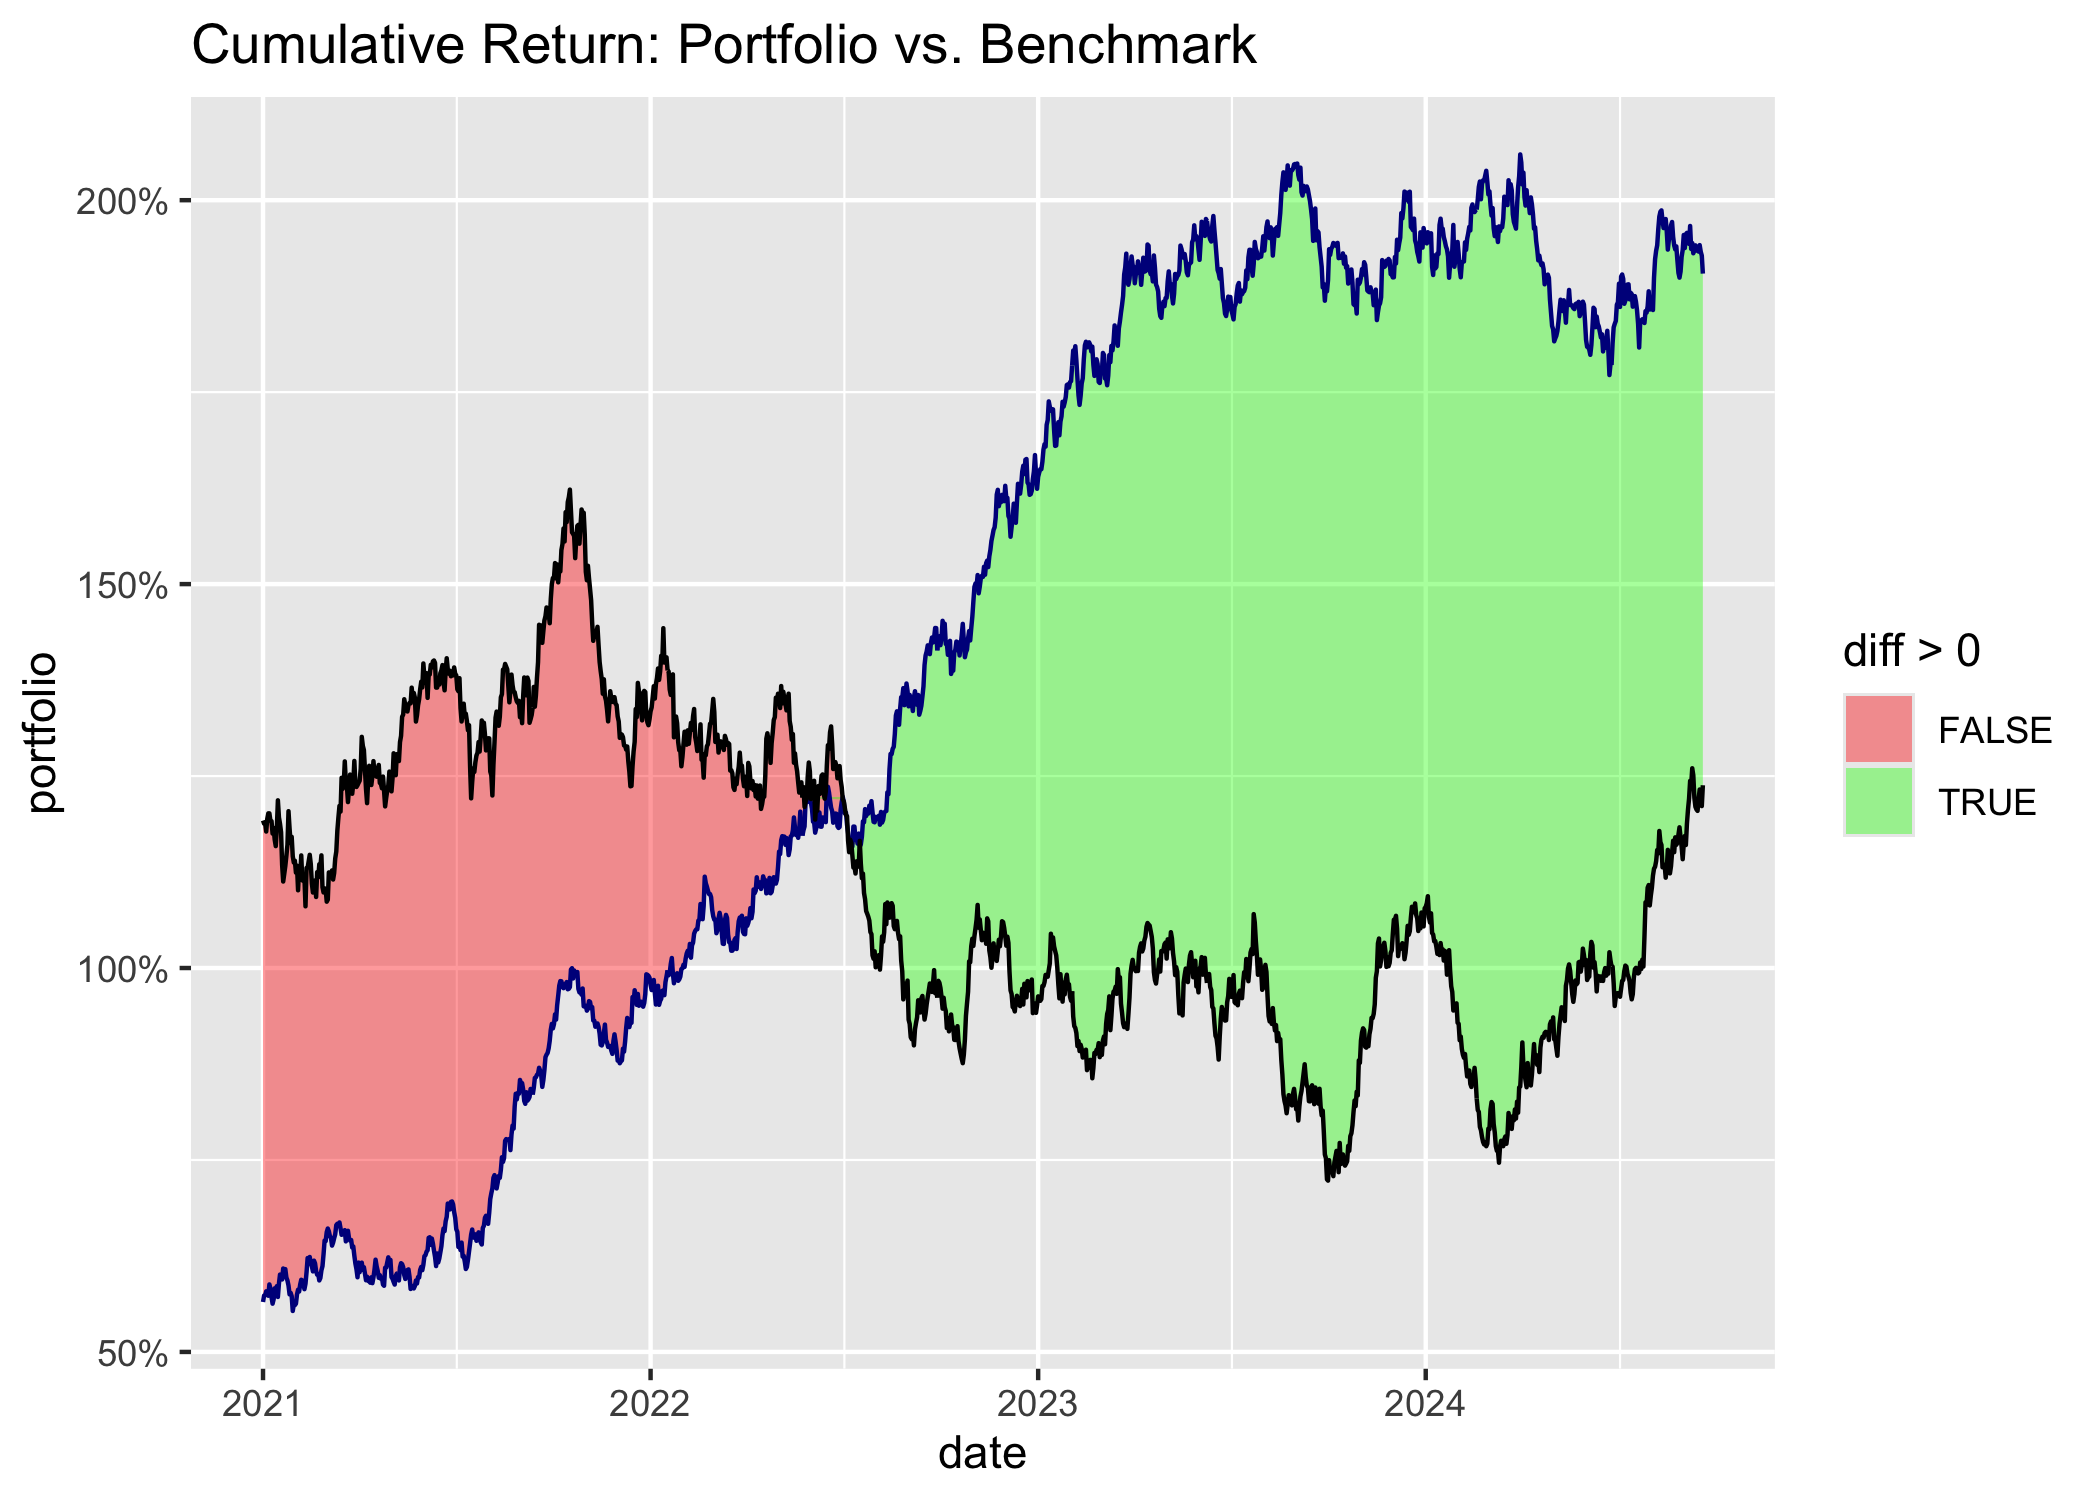
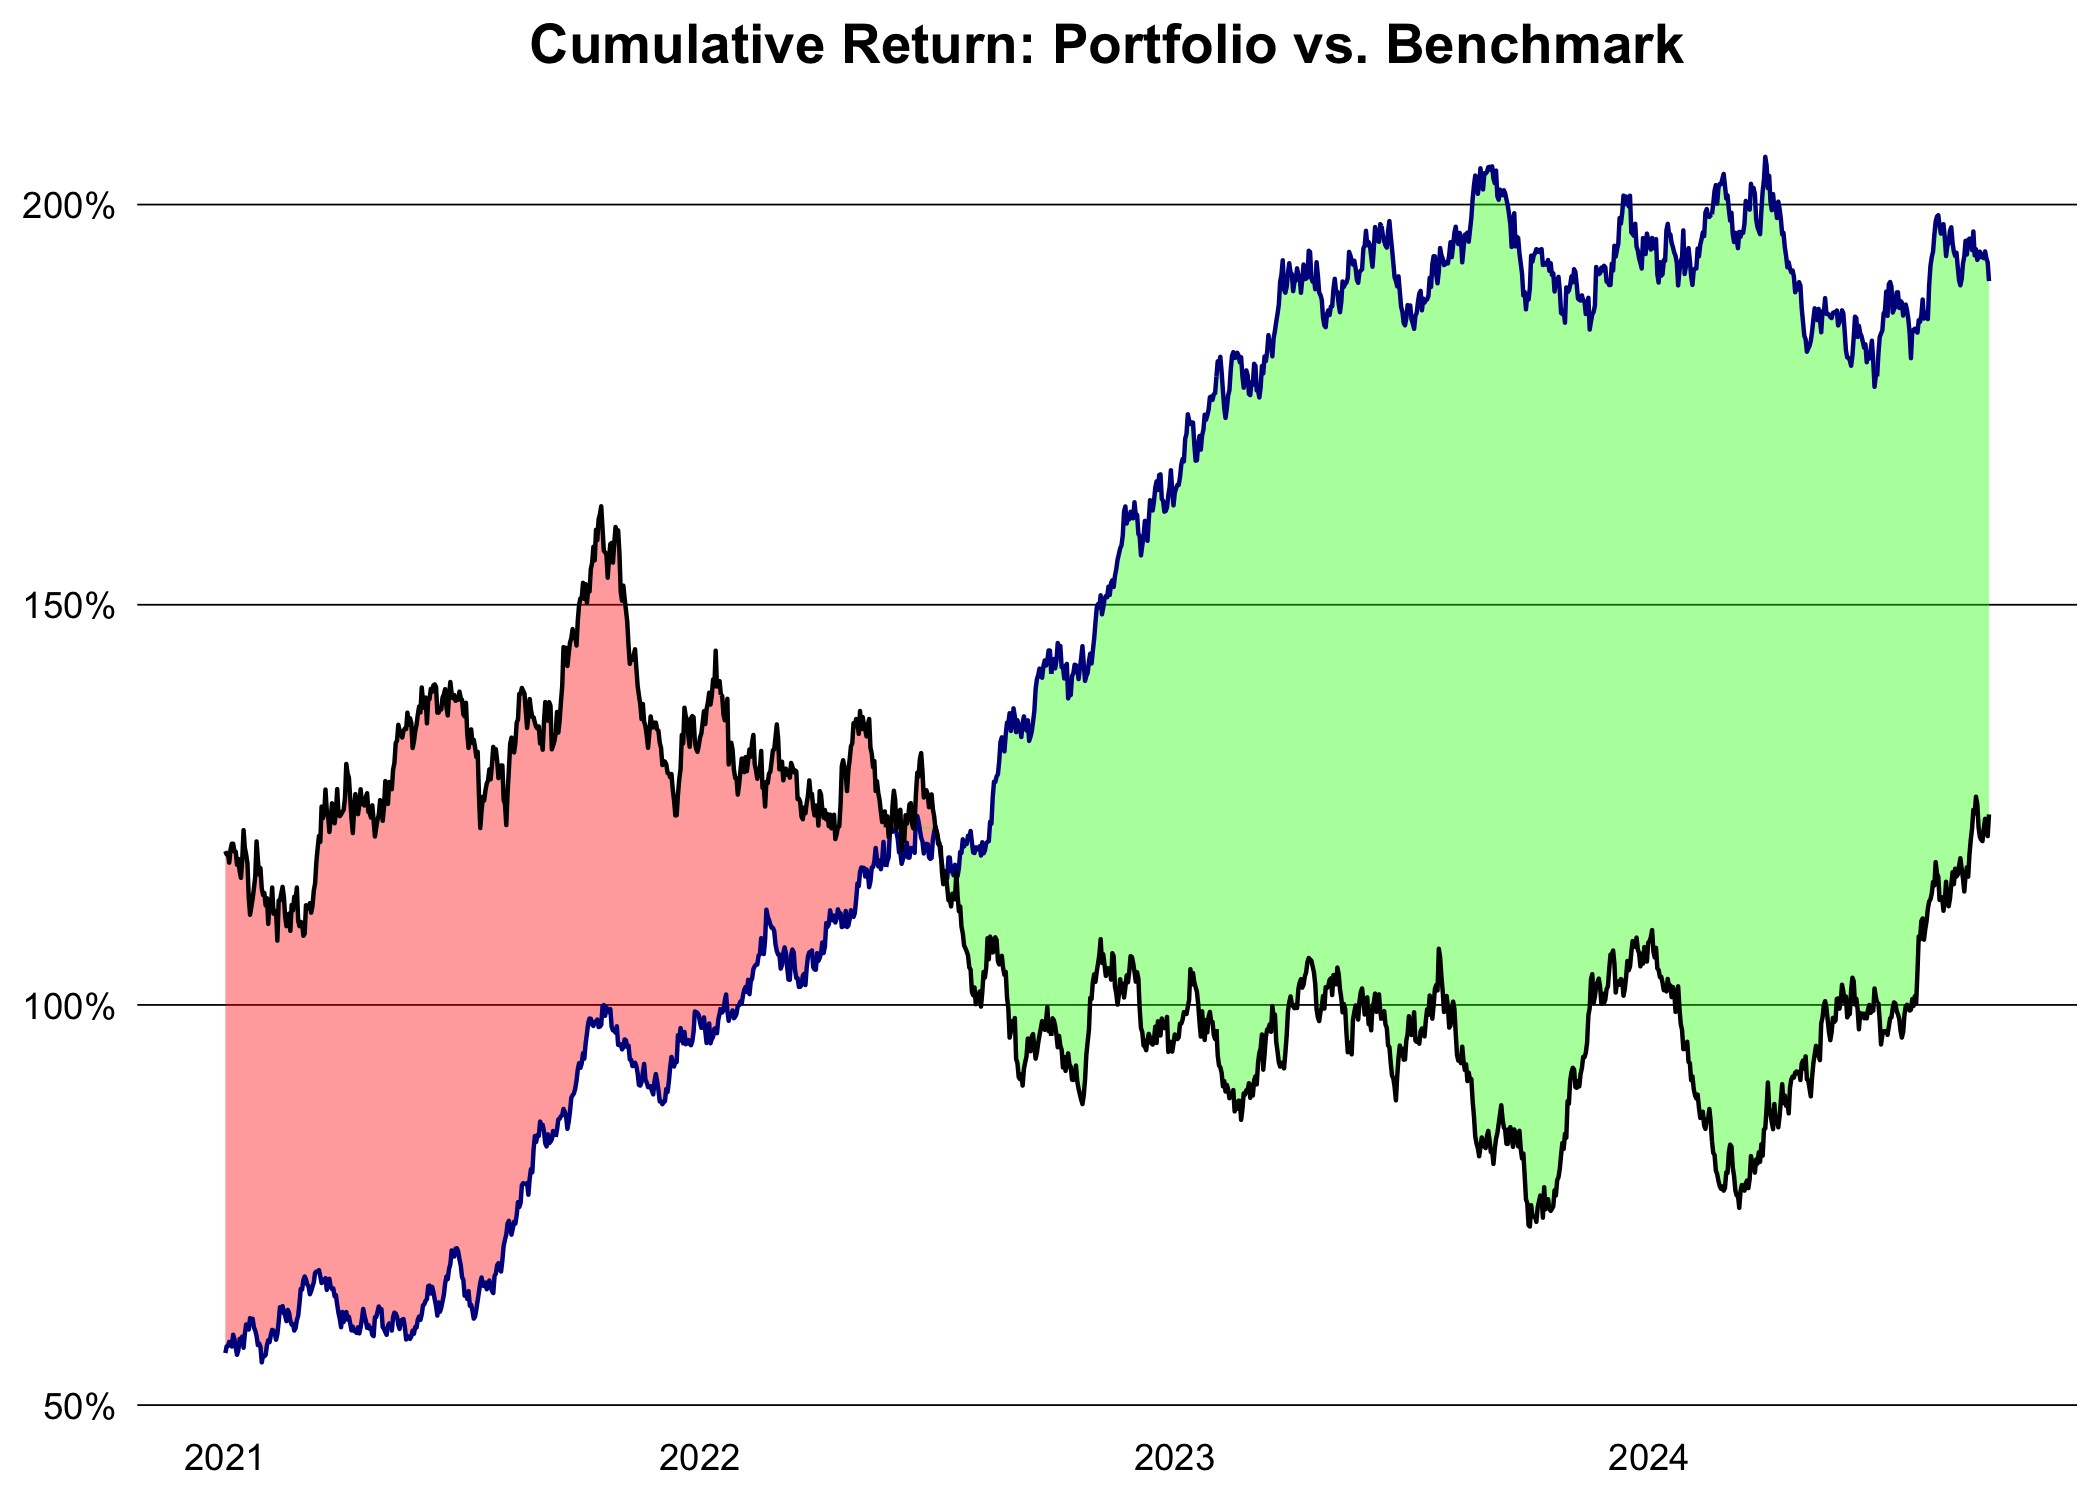
fix: missing pipe

diff --git a/README.md b/README.md
@@ -204,12 +204,7 @@ perf |>
   geom_line(aes(y = benchmark), color = "black") +
   scale_fill_manual(values = c("TRUE" = "green", "FALSE" = "red")) +
   scale_y_continuous(labels = scales::percent_format(accuracy = 2L)) +
-  labs(title = "Cumulative Return: Portfolio vs. Benchmark")
-```
-
-![](README_files/figure-commonmark/unnamed-chunk-8-1.png)
-
-``` r
+  labs(title = "Cumulative Return: Portfolio vs. Benchmark") +
   theme_minimal() +
   theme(
     plot.title = element_text(face = "bold", hjust = 0.5),
@@ -223,291 +218,7 @@ perf |>
   )
 ```
 
-    List of 136
-     $ line                            :List of 6
-      ..$ colour       : chr "black"
-      ..$ linewidth    : num 0.5
-      ..$ linetype     : num 1
-      ..$ lineend      : chr "butt"
-      ..$ arrow        : logi FALSE
-      ..$ inherit.blank: logi TRUE
-      ..- attr(*, "class")= chr [1:2] "element_line" "element"
-     $ rect                            :List of 5
-      ..$ fill         : chr "white"
-      ..$ colour       : chr "black"
-      ..$ linewidth    : num 0.5
-      ..$ linetype     : num 1
-      ..$ inherit.blank: logi TRUE
-      ..- attr(*, "class")= chr [1:2] "element_rect" "element"
-     $ text                            :List of 11
-      ..$ family       : chr ""
-      ..$ face         : chr "plain"
-      ..$ colour       : chr "black"
-      ..$ size         : num 11
-      ..$ hjust        : num 0.5
-      ..$ vjust        : num 0.5
-      ..$ angle        : num 0
-      ..$ lineheight   : num 0.9
-      ..$ margin       : 'margin' num [1:4] 0points 0points 0points 0points
-      .. ..- attr(*, "unit")= int 8
-      ..$ debug        : logi FALSE
-      ..$ inherit.blank: logi TRUE
-      ..- attr(*, "class")= chr [1:2] "element_text" "element"
-     $ title                           : NULL
-     $ aspect.ratio                    : NULL
-     $ axis.title                      : list()
-      ..- attr(*, "class")= chr [1:2] "element_blank" "element"
-     $ axis.title.x                    :List of 11
-      ..$ family       : NULL
-      ..$ face         : NULL
-      ..$ colour       : NULL
-      ..$ size         : NULL
-      ..$ hjust        : NULL
-      ..$ vjust        : num 1
-      ..$ angle        : NULL
-      ..$ lineheight   : NULL
-      ..$ margin       : 'margin' num [1:4] 2.75points 0points 0points 0points
-      .. ..- attr(*, "unit")= int 8
-      ..$ debug        : NULL
-      ..$ inherit.blank: logi TRUE
-      ..- attr(*, "class")= chr [1:2] "element_text" "element"
-     $ axis.title.x.top                :List of 11
-      ..$ family       : NULL
-      ..$ face         : NULL
-      ..$ colour       : NULL
-      ..$ size         : NULL
-      ..$ hjust        : NULL
-      ..$ vjust        : num 0
-      ..$ angle        : NULL
-      ..$ lineheight   : NULL
-      ..$ margin       : 'margin' num [1:4] 0points 0points 2.75points 0points
-      .. ..- attr(*, "unit")= int 8
-      ..$ debug        : NULL
-      ..$ inherit.blank: logi TRUE
-      ..- attr(*, "class")= chr [1:2] "element_text" "element"
-     $ axis.title.x.bottom             : NULL
-     $ axis.title.y                    :List of 11
-      ..$ family       : NULL
-      ..$ face         : NULL
-      ..$ colour       : NULL
-      ..$ size         : NULL
-      ..$ hjust        : NULL
-      ..$ vjust        : num 1
-      ..$ angle        : num 90
-      ..$ lineheight   : NULL
-      ..$ margin       : 'margin' num [1:4] 0points 2.75points 0points 0points
-      .. ..- attr(*, "unit")= int 8
-      ..$ debug        : NULL
-      ..$ inherit.blank: logi TRUE
-      ..- attr(*, "class")= chr [1:2] "element_text" "element"
-     $ axis.title.y.left               : NULL
-     $ axis.title.y.right              :List of 11
-      ..$ family       : NULL
-      ..$ face         : NULL
-      ..$ colour       : NULL
-      ..$ size         : NULL
-      ..$ hjust        : NULL
-      ..$ vjust        : num 1
-      ..$ angle        : num -90
-      ..$ lineheight   : NULL
-      ..$ margin       : 'margin' num [1:4] 0points 0points 0points 2.75points
-      .. ..- attr(*, "unit")= int 8
-      ..$ debug        : NULL
-      ..$ inherit.blank: logi TRUE
-      ..- attr(*, "class")= chr [1:2] "element_text" "element"
-     $ axis.text                       :List of 11
-      ..$ family       : NULL
-      ..$ face         : NULL
-      ..$ colour       : chr "black"
-      ..$ size         : 'rel' num 0.8
-      ..$ hjust        : NULL
-      ..$ vjust        : NULL
-      ..$ angle        : NULL
-      ..$ lineheight   : NULL
-      ..$ margin       : NULL
-      ..$ debug        : NULL
-      ..$ inherit.blank: logi FALSE
-      ..- attr(*, "class")= chr [1:2] "element_text" "element"
-     $ axis.text.x                     :List of 11
-      ..$ family       : NULL
-      ..$ face         : NULL
-      ..$ colour       : NULL
-      ..$ size         : NULL
-      ..$ hjust        : NULL
-      ..$ vjust        : num 1
-      ..$ angle        : NULL
-      ..$ lineheight   : NULL
-      ..$ margin       : 'margin' num [1:4] 2.2points 0points 0points 0points
-      .. ..- attr(*, "unit")= int 8
-      ..$ debug        : NULL
-      ..$ inherit.blank: logi TRUE
-      ..- attr(*, "class")= chr [1:2] "element_text" "element"
-     $ axis.text.x.top                 :List of 11
-      ..$ family       : NULL
-      ..$ face         : NULL
-      ..$ colour       : NULL
-      ..$ size         : NULL
-      ..$ hjust        : NULL
-      ..$ vjust        : num 0
-      ..$ angle        : NULL
-      ..$ lineheight   : NULL
-      ..$ margin       : 'margin' num [1:4] 0points 0points 2.2points 0points
-      .. ..- attr(*, "unit")= int 8
-      ..$ debug        : NULL
-      ..$ inherit.blank: logi TRUE
-      ..- attr(*, "class")= chr [1:2] "element_text" "element"
-     $ axis.text.x.bottom              : NULL
-     $ axis.text.y                     :List of 11
-      ..$ family       : NULL
-      ..$ face         : NULL
-      ..$ colour       : NULL
-      ..$ size         : NULL
-      ..$ hjust        : num 1
-      ..$ vjust        : NULL
-      ..$ angle        : NULL
-      ..$ lineheight   : NULL
-      ..$ margin       : 'margin' num [1:4] 0points 2.2points 0points 0points
-      .. ..- attr(*, "unit")= int 8
-      ..$ debug        : NULL
-      ..$ inherit.blank: logi TRUE
-      ..- attr(*, "class")= chr [1:2] "element_text" "element"
-     $ axis.text.y.left                : NULL
-     $ axis.text.y.right               :List of 11
-      ..$ family       : NULL
-      ..$ face         : NULL
-      ..$ colour       : NULL
-      ..$ size         : NULL
-      ..$ hjust        : num 0
-      ..$ vjust        : NULL
-      ..$ angle        : NULL
-      ..$ lineheight   : NULL
-      ..$ margin       : 'margin' num [1:4] 0points 0points 0points 2.2points
-      .. ..- attr(*, "unit")= int 8
-      ..$ debug        : NULL
-      ..$ inherit.blank: logi TRUE
-      ..- attr(*, "class")= chr [1:2] "element_text" "element"
-     $ axis.text.theta                 : NULL
-     $ axis.text.r                     :List of 11
-      ..$ family       : NULL
-      ..$ face         : NULL
-      ..$ colour       : NULL
-      ..$ size         : NULL
-      ..$ hjust        : num 0.5
-      ..$ vjust        : NULL
-      ..$ angle        : NULL
-      ..$ lineheight   : NULL
-      ..$ margin       : 'margin' num [1:4] 0points 2.2points 0points 2.2points
-      .. ..- attr(*, "unit")= int 8
-      ..$ debug        : NULL
-      ..$ inherit.blank: logi TRUE
-      ..- attr(*, "class")= chr [1:2] "element_text" "element"
-     $ axis.ticks                      : list()
-      ..- attr(*, "class")= chr [1:2] "element_blank" "element"
-     $ axis.ticks.x                    : NULL
-     $ axis.ticks.x.top                : NULL
-     $ axis.ticks.x.bottom             : NULL
-     $ axis.ticks.y                    : NULL
-     $ axis.ticks.y.left               : NULL
-     $ axis.ticks.y.right              : NULL
-     $ axis.ticks.theta                : NULL
-     $ axis.ticks.r                    : NULL
-     $ axis.minor.ticks.x.top          : NULL
-     $ axis.minor.ticks.x.bottom       : NULL
-     $ axis.minor.ticks.y.left         : NULL
-     $ axis.minor.ticks.y.right        : NULL
-     $ axis.minor.ticks.theta          : NULL
-     $ axis.minor.ticks.r              : NULL
-     $ axis.ticks.length               : 'simpleUnit' num 2.75points
-      ..- attr(*, "unit")= int 8
-     $ axis.ticks.length.x             : NULL
-     $ axis.ticks.length.x.top         : NULL
-     $ axis.ticks.length.x.bottom      : NULL
-     $ axis.ticks.length.y             : NULL
-     $ axis.ticks.length.y.left        : NULL
-     $ axis.ticks.length.y.right       : NULL
-     $ axis.ticks.length.theta         : NULL
-     $ axis.ticks.length.r             : NULL
-     $ axis.minor.ticks.length         : 'rel' num 0.75
-     $ axis.minor.ticks.length.x       : NULL
-     $ axis.minor.ticks.length.x.top   : NULL
-     $ axis.minor.ticks.length.x.bottom: NULL
-     $ axis.minor.ticks.length.y       : NULL
-     $ axis.minor.ticks.length.y.left  : NULL
-     $ axis.minor.ticks.length.y.right : NULL
-     $ axis.minor.ticks.length.theta   : NULL
-     $ axis.minor.ticks.length.r       : NULL
-     $ axis.line                       : list()
-      ..- attr(*, "class")= chr [1:2] "element_blank" "element"
-     $ axis.line.x                     : NULL
-     $ axis.line.x.top                 : NULL
-     $ axis.line.x.bottom              : NULL
-     $ axis.line.y                     : NULL
-     $ axis.line.y.left                : NULL
-     $ axis.line.y.right               : NULL
-     $ axis.line.theta                 : NULL
-     $ axis.line.r                     : NULL
-     $ legend.background               : list()
-      ..- attr(*, "class")= chr [1:2] "element_blank" "element"
-     $ legend.margin                   : 'margin' num [1:4] 5.5points 5.5points 5.5points 5.5points
-      ..- attr(*, "unit")= int 8
-     $ legend.spacing                  : 'simpleUnit' num 11points
-      ..- attr(*, "unit")= int 8
-     $ legend.spacing.x                : NULL
-     $ legend.spacing.y                : NULL
-     $ legend.key                      : list()
-      ..- attr(*, "class")= chr [1:2] "element_blank" "element"
-     $ legend.key.size                 : 'simpleUnit' num 1.2lines
-      ..- attr(*, "unit")= int 3
-     $ legend.key.height               : NULL
-     $ legend.key.width                : NULL
-     $ legend.key.spacing              : 'simpleUnit' num 5.5points
-      ..- attr(*, "unit")= int 8
-     $ legend.key.spacing.x            : NULL
-     $ legend.key.spacing.y            : NULL
-     $ legend.frame                    : NULL
-     $ legend.ticks                    : NULL
-     $ legend.ticks.length             : 'rel' num 0.2
-     $ legend.axis.line                : NULL
-     $ legend.text                     :List of 11
-      ..$ family       : NULL
-      ..$ face         : NULL
-      ..$ colour       : NULL
-      ..$ size         : 'rel' num 0.8
-      ..$ hjust        : NULL
-      ..$ vjust        : NULL
-      ..$ angle        : NULL
-      ..$ lineheight   : NULL
-      ..$ margin       : NULL
-      ..$ debug        : NULL
-      ..$ inherit.blank: logi TRUE
-      ..- attr(*, "class")= chr [1:2] "element_text" "element"
-     $ legend.text.position            : NULL
-     $ legend.title                    : list()
-      ..- attr(*, "class")= chr [1:2] "element_blank" "element"
-     $ legend.title.position           : NULL
-     $ legend.position                 : chr "none"
-     $ legend.position.inside          : NULL
-     $ legend.direction                : NULL
-     $ legend.byrow                    : NULL
-     $ legend.justification            : chr "center"
-     $ legend.justification.top        : NULL
-     $ legend.justification.bottom     : NULL
-     $ legend.justification.left       : NULL
-     $ legend.justification.right      : NULL
-     $ legend.justification.inside     : NULL
-     $ legend.location                 : NULL
-     $ legend.box                      : NULL
-     $ legend.box.just                 : NULL
-     $ legend.box.margin               : 'margin' num [1:4] 0cm 0cm 0cm 0cm
-      ..- attr(*, "unit")= int 1
-     $ legend.box.background           : list()
-      ..- attr(*, "class")= chr [1:2] "element_blank" "element"
-     $ legend.box.spacing              : 'simpleUnit' num 11points
-      ..- attr(*, "unit")= int 8
-      [list output truncated]
-     - attr(*, "class")= chr [1:2] "theme" "gg"
-     - attr(*, "complete")= logi TRUE
-     - attr(*, "validate")= logi TRUE
+![](README_files/figure-commonmark/unnamed-chunk-8-1.png)
 
 ``` r
 library(gt)
